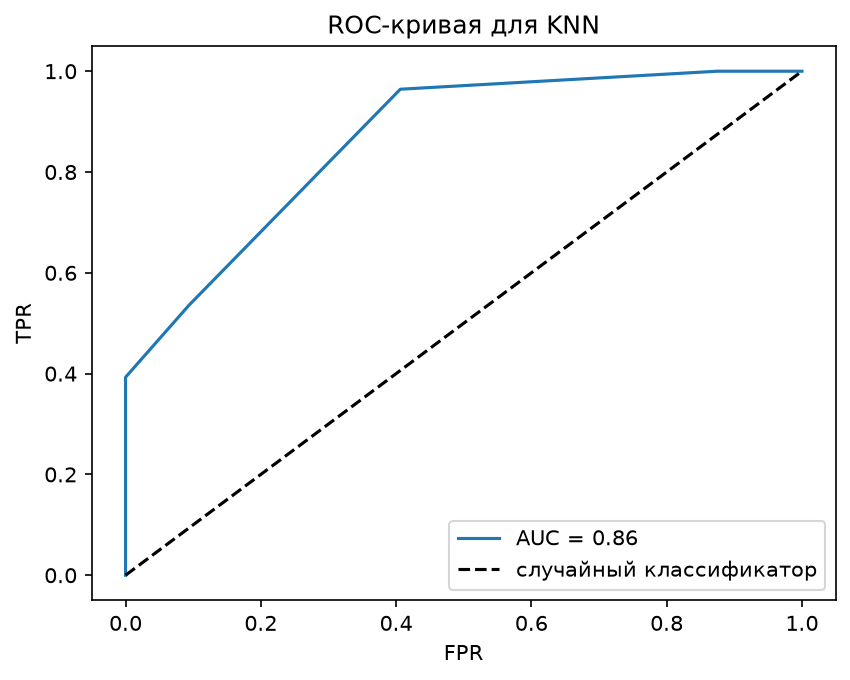
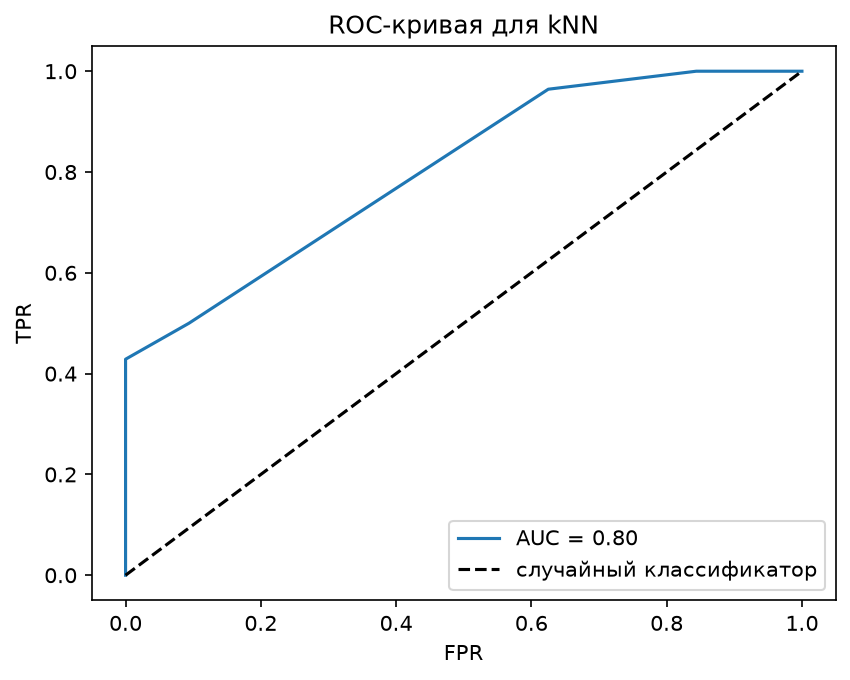
task 4: 1.3)

diff --git a/task_4/task_4.py b/task_4/task_4.py
@@ -17,6 +17,9 @@ from sklearn.metrics import accuracy_score, f1_score, log_loss
 from sklearn.metrics import classification_report
 from sklearn.metrics import roc_curve, auc
 from sklearn.linear_model import LogisticRegression
+from sklearn.model_selection import cross_val_predict
+from sklearn.model_selection import StratifiedKFold
+from sklearn.ensemble import VotingClassifier
 
 
 def read_data(data_file: str, separator: str) -> pd.DataFrame:
@@ -27,30 +30,8 @@ def read_data(data_file: str, separator: str) -> pd.DataFrame:
 def scaler(x_test, x_train):
     scaler = StandardScaler()
     x_train_scaled = scaler.fit_transform(x_train)
-    x_test_scaled = scaler.transform()
+    x_test_scaled = scaler.transform(x_test)
     return x_train_scaled, x_test_scaled
-
-def ols(x_train, y_train, x_test):
-    ols = LinearRegression().fit(x_train, y_train)
-    return ols.predict(x_test)
-
-def svm(x_train, y_train, x_test):
-    param_grid = {
-    'svc__C': [0.1, 1, 10],
-    'svc__kernel': ['linear', 'rbf'],
-    'svc__gamma': ['scale', 0.1, 1]
-}
-    _svm = make_pipeline(StandardScaler(), SVC(kernel='linear', C=0.1, probability=True, gamma='scale')).fit(x_train, y_train)
-    grid = GridSearchCV(_svm, param_grid, cv=5, scoring='accuracy')
-    grid.fit(x_train, y_train)
-
-    return (_svm.predict(x_test)>=0.5).astype(int), _svm.predict_proba(x_test)
-
-def log_regression(x_train, y_train, x_test):
-    model = LogisticRegression()
-    model.fit(x_train, y_train)
-    return model.predict(x_test)
-
 
 def class_metrics(metrics_dict):
     results = []
@@ -82,7 +63,11 @@ def _confusion_matrix(y_pred_class, y_class, name):
     plt.show()
     
 def roc(y_class, y_predict_proba, name):
-    fpr, tpr, thresholds = roc_curve(y_true=y_class, y_score=y_predict_proba[:, 1])
+    if y_predict_proba.ndim >= 2:
+        y_score = y_predict_proba[:, 1]
+    else:
+        y_score = y_predict_proba  
+    fpr, tpr, thresholds = roc_curve(y_true=y_class, y_score=y_score)
     roc_auc = auc(fpr, tpr)
     plt.figure()
     plt.plot(fpr, tpr, label=f'AUC = {roc_auc:.2f}')
@@ -117,6 +102,8 @@ def main():
     
     x1_col = 'workingday'
     x2_col = 'temp'
+    x_scaled = StandardScaler().fit_transform(data[[x1_col, x2_col]])
+    y = np.concatenate([y_train_class, y_test_class])
     x_train = train_df[[x1_col]]
     x_test = test_df[[x1_col]]
     xn_cols = ['workingday', 'holiday', 'windspeed', 'temp', 'humidity', 'summer']
@@ -125,8 +112,7 @@ def main():
     x6_train = train_df[xn_cols]
     x6_test = test_df[xn_cols]
 
-    x2_test_scaled, x2_train_scaled = scaler(x2_test, x2_train)
-
+    x2_train_scaled, x2_test_scaled = scaler(x2_test, x2_train)
     models = {
     'kNN': KNeighborsClassifier(n_neighbors=5),
     'SVM': SVC(probability=True, kernel='linear'),
@@ -137,17 +123,60 @@ def main():
     metrics = {}
 
     for name, model in models.items():
-        model.fit(x2_train_scaled, y_train)
+        model.fit(x2_train_scaled, y_train_class)
         y_probs[name] = model.predict_proba(x2_test_scaled)[:,1]
         y_preds[name] = model.predict(x2_test_scaled)
         metrics[name] = {
-            'accuracy': accuracy_score(y_test, y_preds[name]),
-            'logloss': log_loss(y_test, y_probs[name]),
-            'f1': f1_score(y_test, y_preds[name])
+            'accuracy': accuracy_score(y_test_class, y_preds[name]),
+            'logloss': log_loss(y_test_class, y_probs[name]),
+            'f1': f1_score(y_test_class, y_preds[name])
         }
-        _confusion_matrix(y_probs[name], y_preds[name])
-        roc(y_preds[name], y_probs[name], name)
+        _confusion_matrix(y_preds[name], y_test_class, name)
+        roc(y_test_class, y_probs[name], name)
     
-
+    cv = StratifiedKFold()
+    for name, model in models.items():
+        y_pred_cv = cross_val_predict(model, x_scaled, y, cv=cv, method='predict')
+        y_proba_cv = cross_val_predict(model, x_scaled, y, cv=cv, method='predict_proba')[:, 1]
+        metrics[f'{name}_cv'] = {
+                'accuracy': accuracy_score(y, y_pred_cv),
+                'logloss': log_loss(y, y_proba_cv),
+                'f1': f1_score(y, y_pred_cv)
+            }
+        _confusion_matrix(y_pred_cv, y, f'{name}_cv')
+        roc(y_pred_cv, y_proba_cv, f'{name}_cv')
+    
+    voting_hard = VotingClassifier(
+        estimators=[('knn', models['kNN']), ('svm', models['SVM']), ('lr', models['SVM'])],
+        voting='hard'
+    )
+    
+    voting_soft = VotingClassifier(
+        estimators=[('knn', models['kNN']), ('svm', models['SVM']), ('lr', models['LR'])],
+        voting='soft'
+    )
+    
+    voting_hard.fit(x2_train_scaled, y_train_class)
+    voting_soft.fit(x2_train_scaled, y_train_class)
+    y_pred_hard = voting_hard.predict(x2_test_scaled)
+    y_pred_soft = voting_soft.predict(x2_test_scaled)
+    y_pred_soft_proba = voting_soft.predict_proba(x2_test_scaled)
+    metrics['Hard Voting'] = {
+        'accuracy': accuracy_score(y_test_class, y_pred_hard),
+        'f1': f1_score(y_test_class, y_pred_hard)
+    }
+    _confusion_matrix(y_pred_hard, y_test_class, 'Hard Voting')
+    
+    metrics['Soft Voting'] = {
+        'accuracy': accuracy_score(y_test_class, y_pred_soft),
+        'logloss': log_loss(y_test_class, y_pred_soft_proba),
+        'f1': f1_score(y_test_class, y_pred_soft)
+    }
+    _confusion_matrix(y_pred_soft, y_test_class, 'Soft Voting')
+    roc(y_test_class, y_pred_soft_proba, 'Soft Voting')
+    
+    
+    df_metrics = pd.DataFrame(metrics).T.round(4)
+    print(df_metrics)
 if __name__ == "__main__":
     main()
